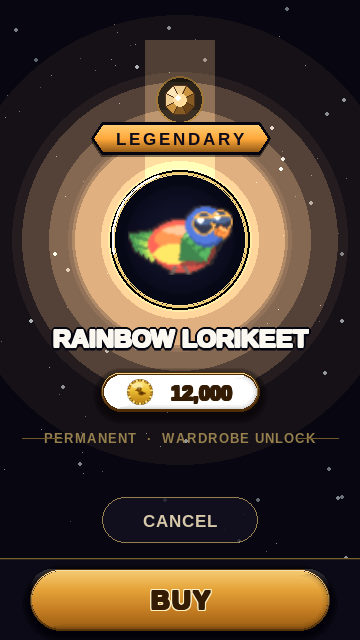
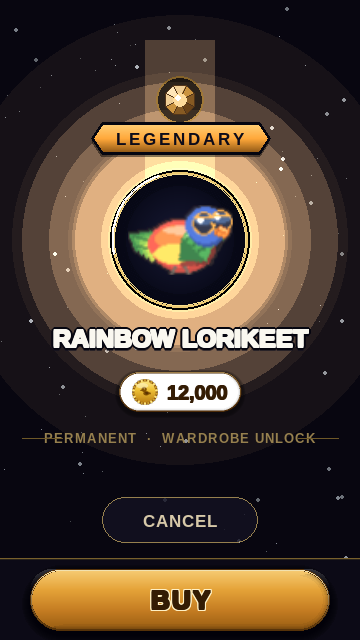
design: update vitrine-vault r2 render and script

Changed region(s): [[0.275, 0.5625, 0.7333, 0.6562]]

diff --git a/scratchpad/vitrine_vault_r2.py b/scratchpad/vitrine_vault_r2.py
@@ -70,7 +70,16 @@ _ribbon(surf, "LEGENDARY", DISC_X, 138, 220, PAL)
 
 # ── Name + price block below the disc ──────────────────────────────────────────
 _name_on(surf, "RAINBOW LORIKEET", DISC_X, 338, 260)
-price_chip(surf, DISC_X, 392, "12,000", 40, affordable=True)
+
+# The price chip's in-game coin carries a hot specular that reads as raw white
+# blocks at 1x; the store authors every chip at 2x and smoothscales down so the
+# glint blends into gold. Mirror that here: draw the chip on a 2x scratch canvas,
+# then one smoothscale down lands it as crisp gold, not a blown coin.
+_cbw, _cbh = 260, 60
+_cbig = pygame.Surface((_cbw * 2, _cbh * 2), pygame.SRCALPHA)
+price_chip(_cbig, _cbw, _cbh, "12,000", 80, affordable=True)
+_csmall = pygame.transform.smoothscale(_cbig, (_cbw, _cbh))
+surf.blit(_csmall, (DISC_X - _cbw // 2, 392 - _cbh // 2))
 
 # subtitle divider so the lower third reads as a product line, not a void
 sub_f = _font(13, True)
